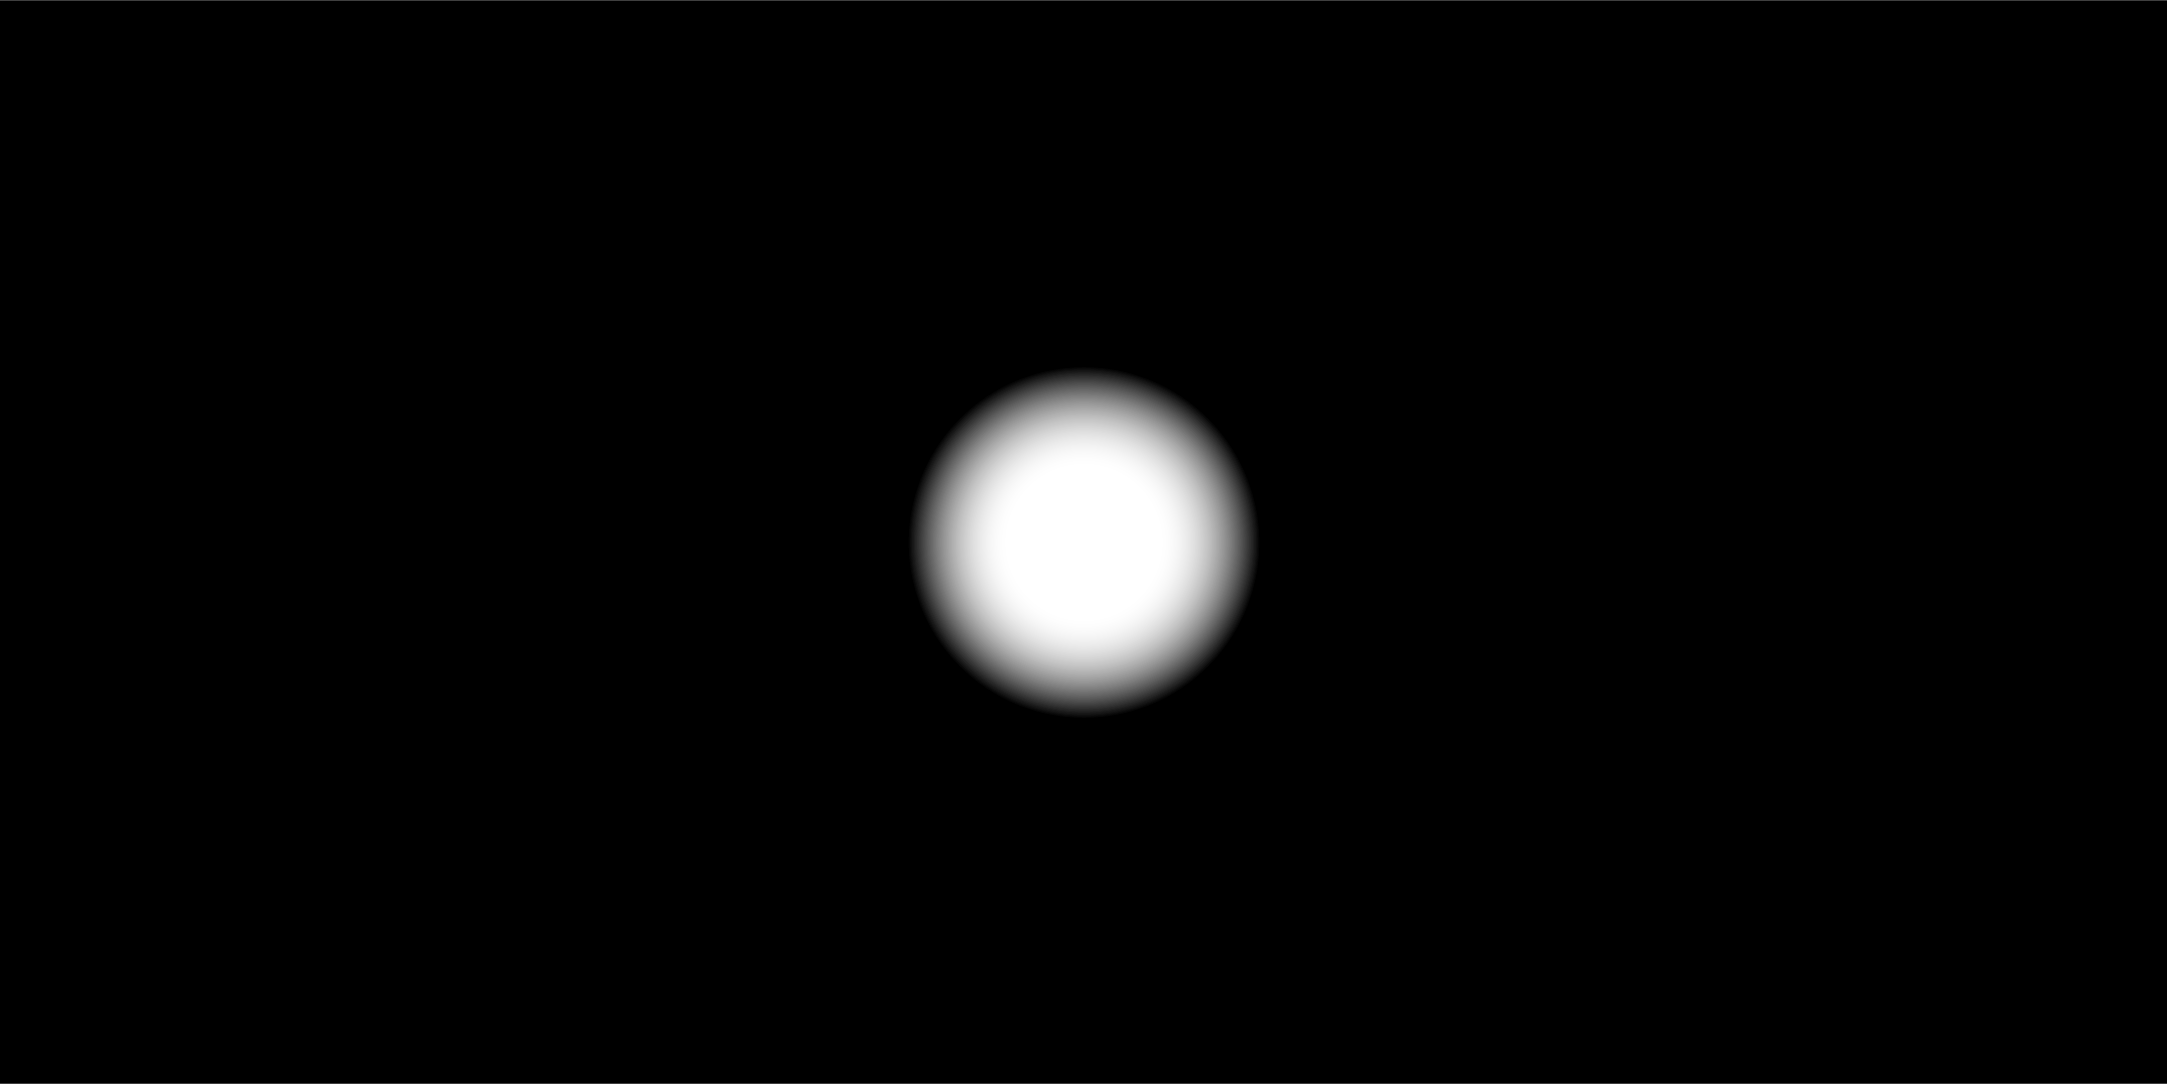
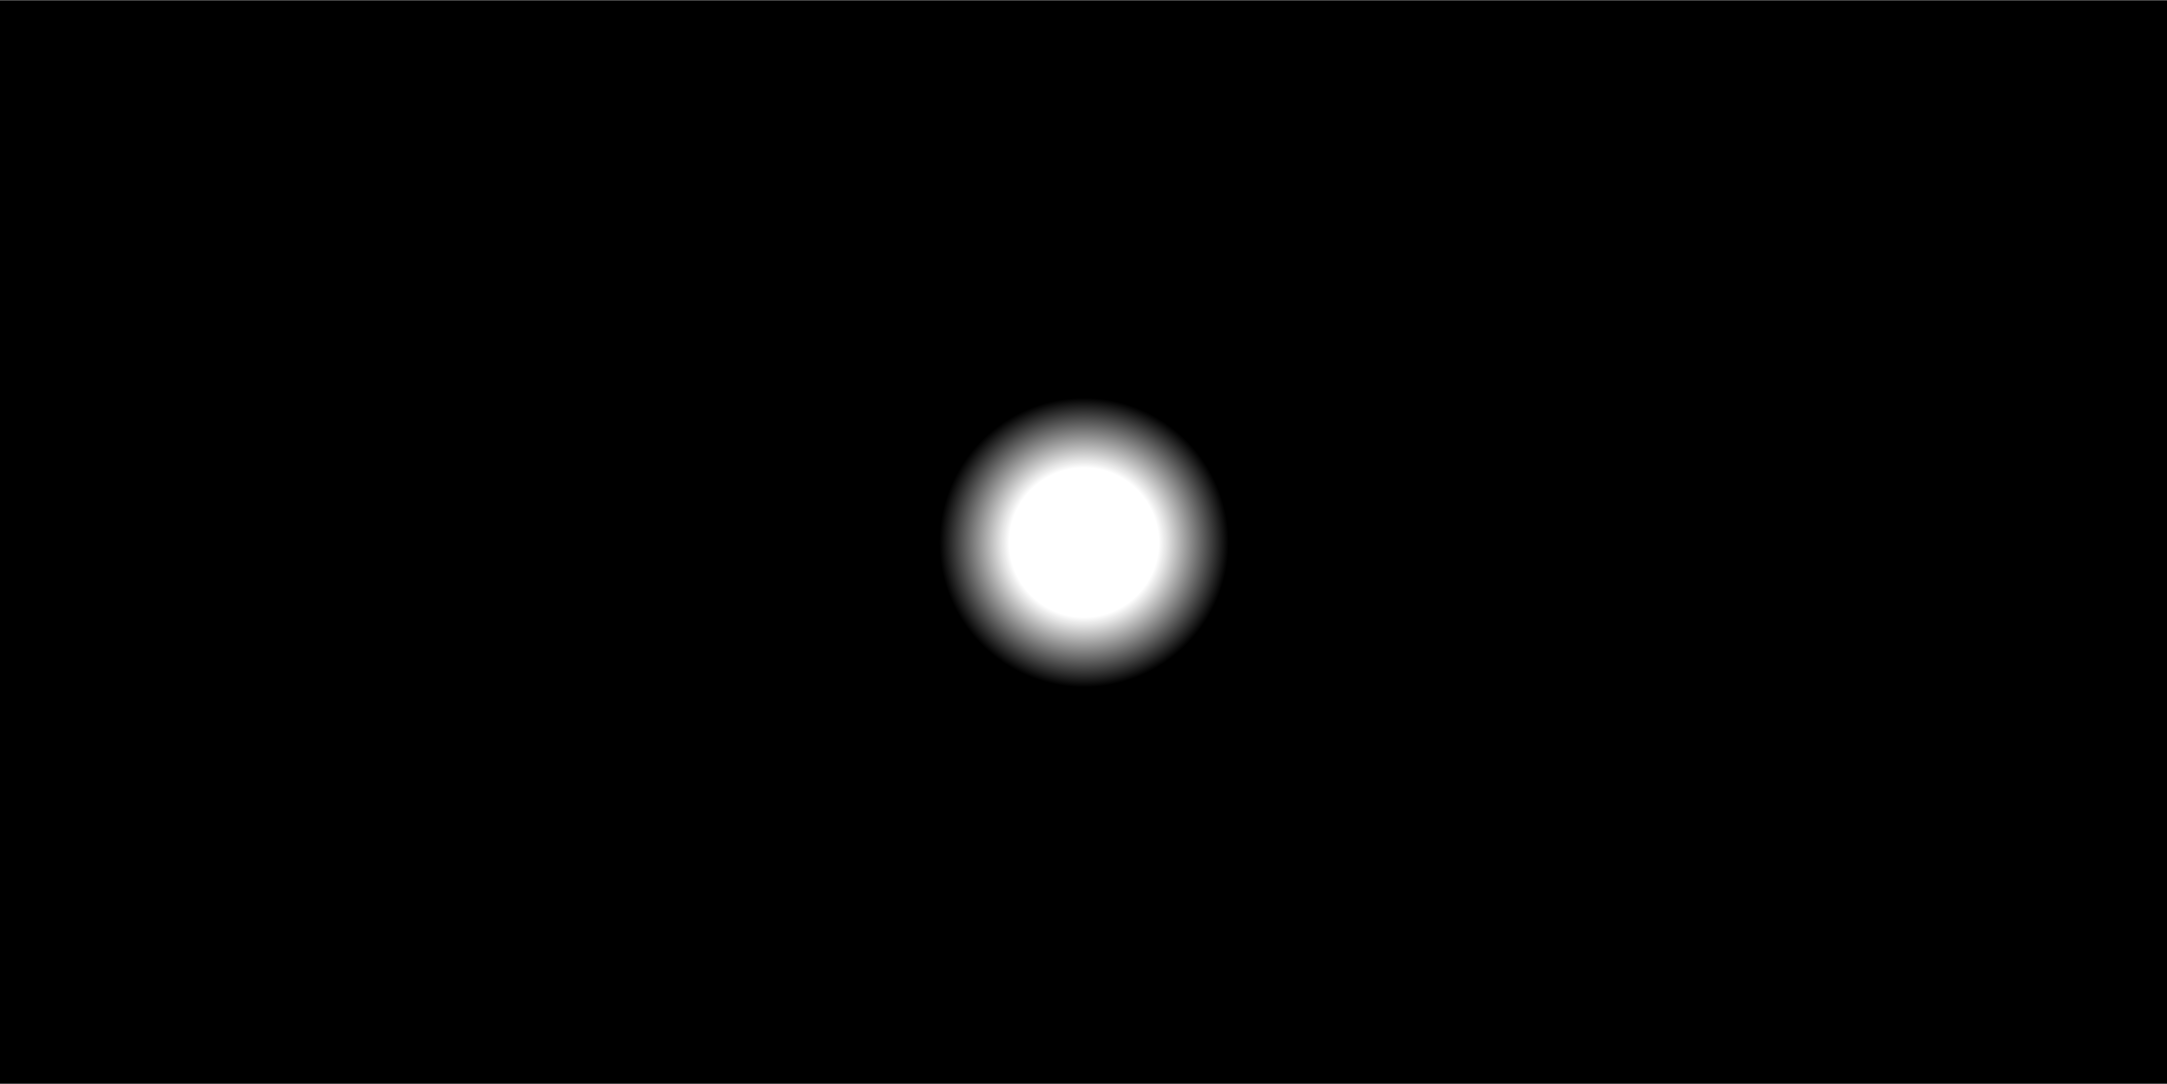
tuve que volver a meter plataforma móvil y volví a cambiar la viñeta
también achiqué el tamaño de la viñeta

Changed region(s): [[0.4019, 0.3349, 0.5874, 0.6697]]

diff --git a/Assets/PlataformaMovil.cs b/Assets/PlataformaMovil.cs
@@ -1,0 +1,55 @@
+using UnityEngine;
+using UnityEngine.UI;
+using System.Collections;
+
+[RequireComponent(typeof(Rigidbody2D))]
+
+
+public class PlataformaMovil : MonoBehaviour
+
+{
+    // creo que es para elegir la plataforma
+    public GameObject platform;
+
+    // y ahora para tener parámetro de velocidad:
+    public float moveSpeed;
+
+    public Transform currentPoint; 
+
+    public Transform[] points;
+
+    public int pointSelection;
+
+    private Rigidbody2D rb;
+
+    void Start ()
+    {
+        rb = GetComponent<Rigidbody2D>();
+        currentPoint = points[pointSelection];
+    }
+
+    void Update()
+    {
+        Vector2 newPosition = Vector2.MoveTowards(rb.position, currentPoint.position, Time.deltaTime * moveSpeed);
+
+    
+
+        rb.MovePosition(newPosition);
+
+
+        if (Vector2.Distance(rb.position, currentPoint.position) < 0.01f)
+        {
+
+            pointSelection++;
+
+            if (pointSelection >= points.Length)
+            {
+                pointSelection = 0;
+                
+            }
+            
+
+            currentPoint = points[pointSelection];
+        }
+    }
+}
